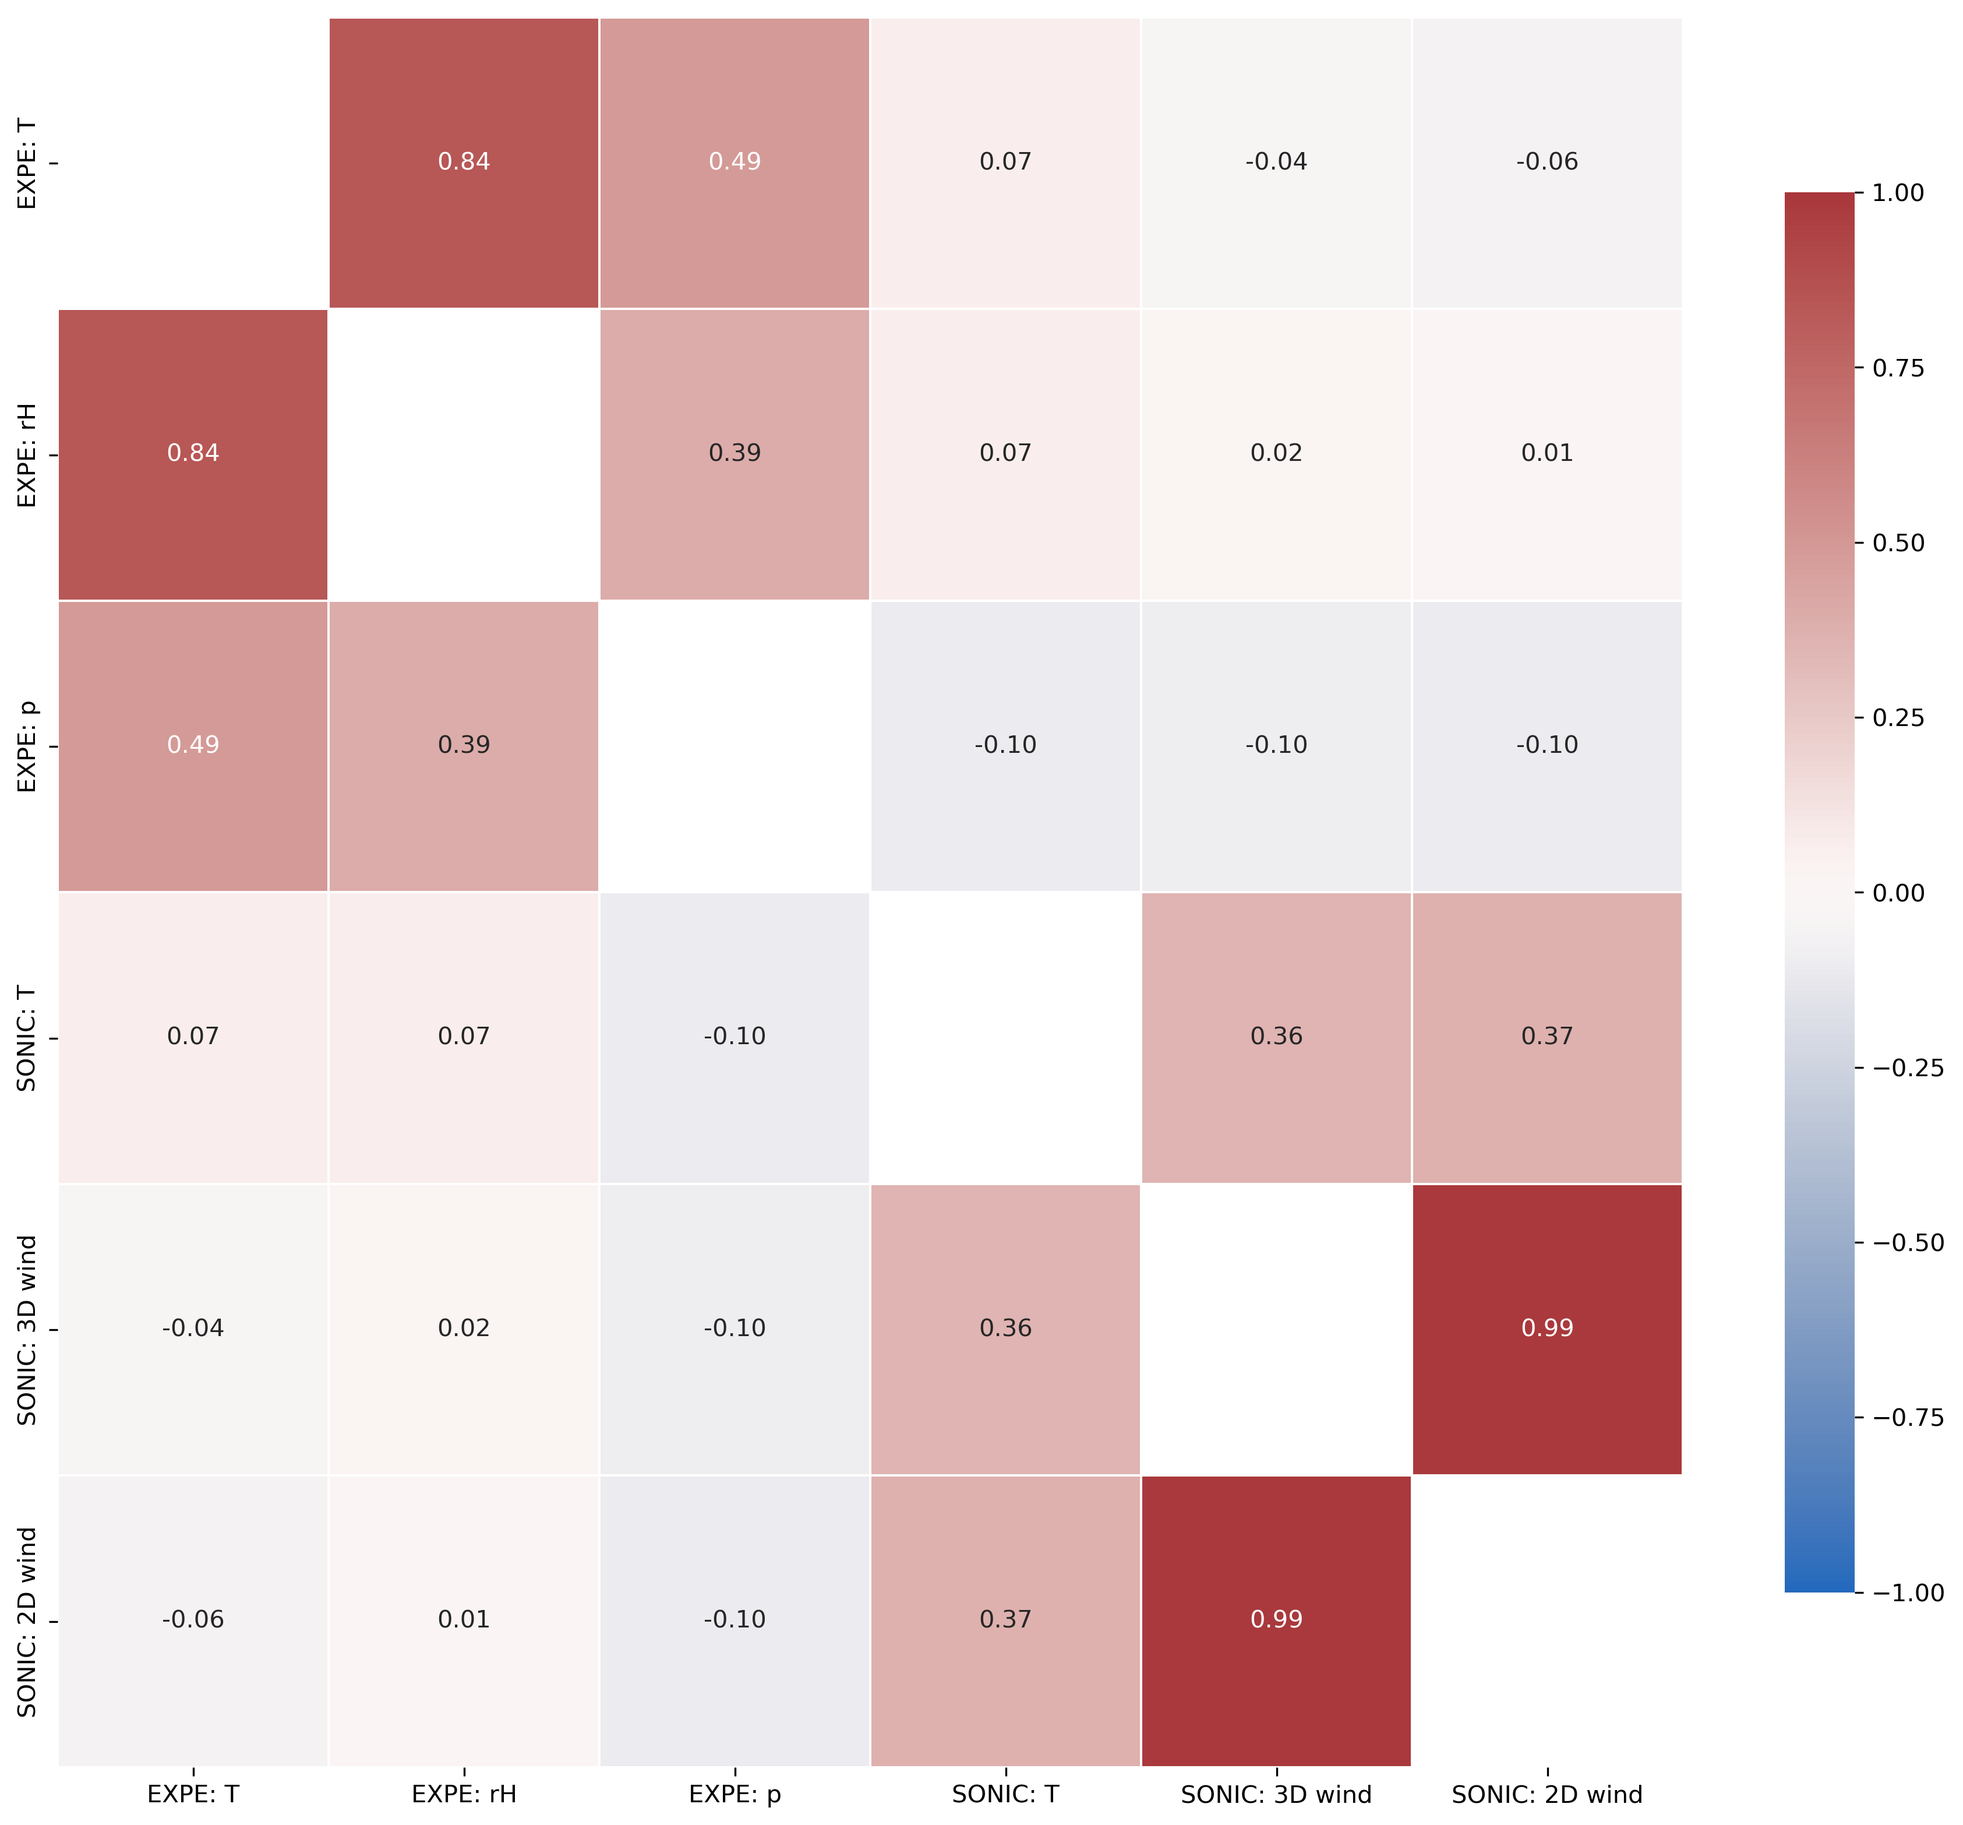
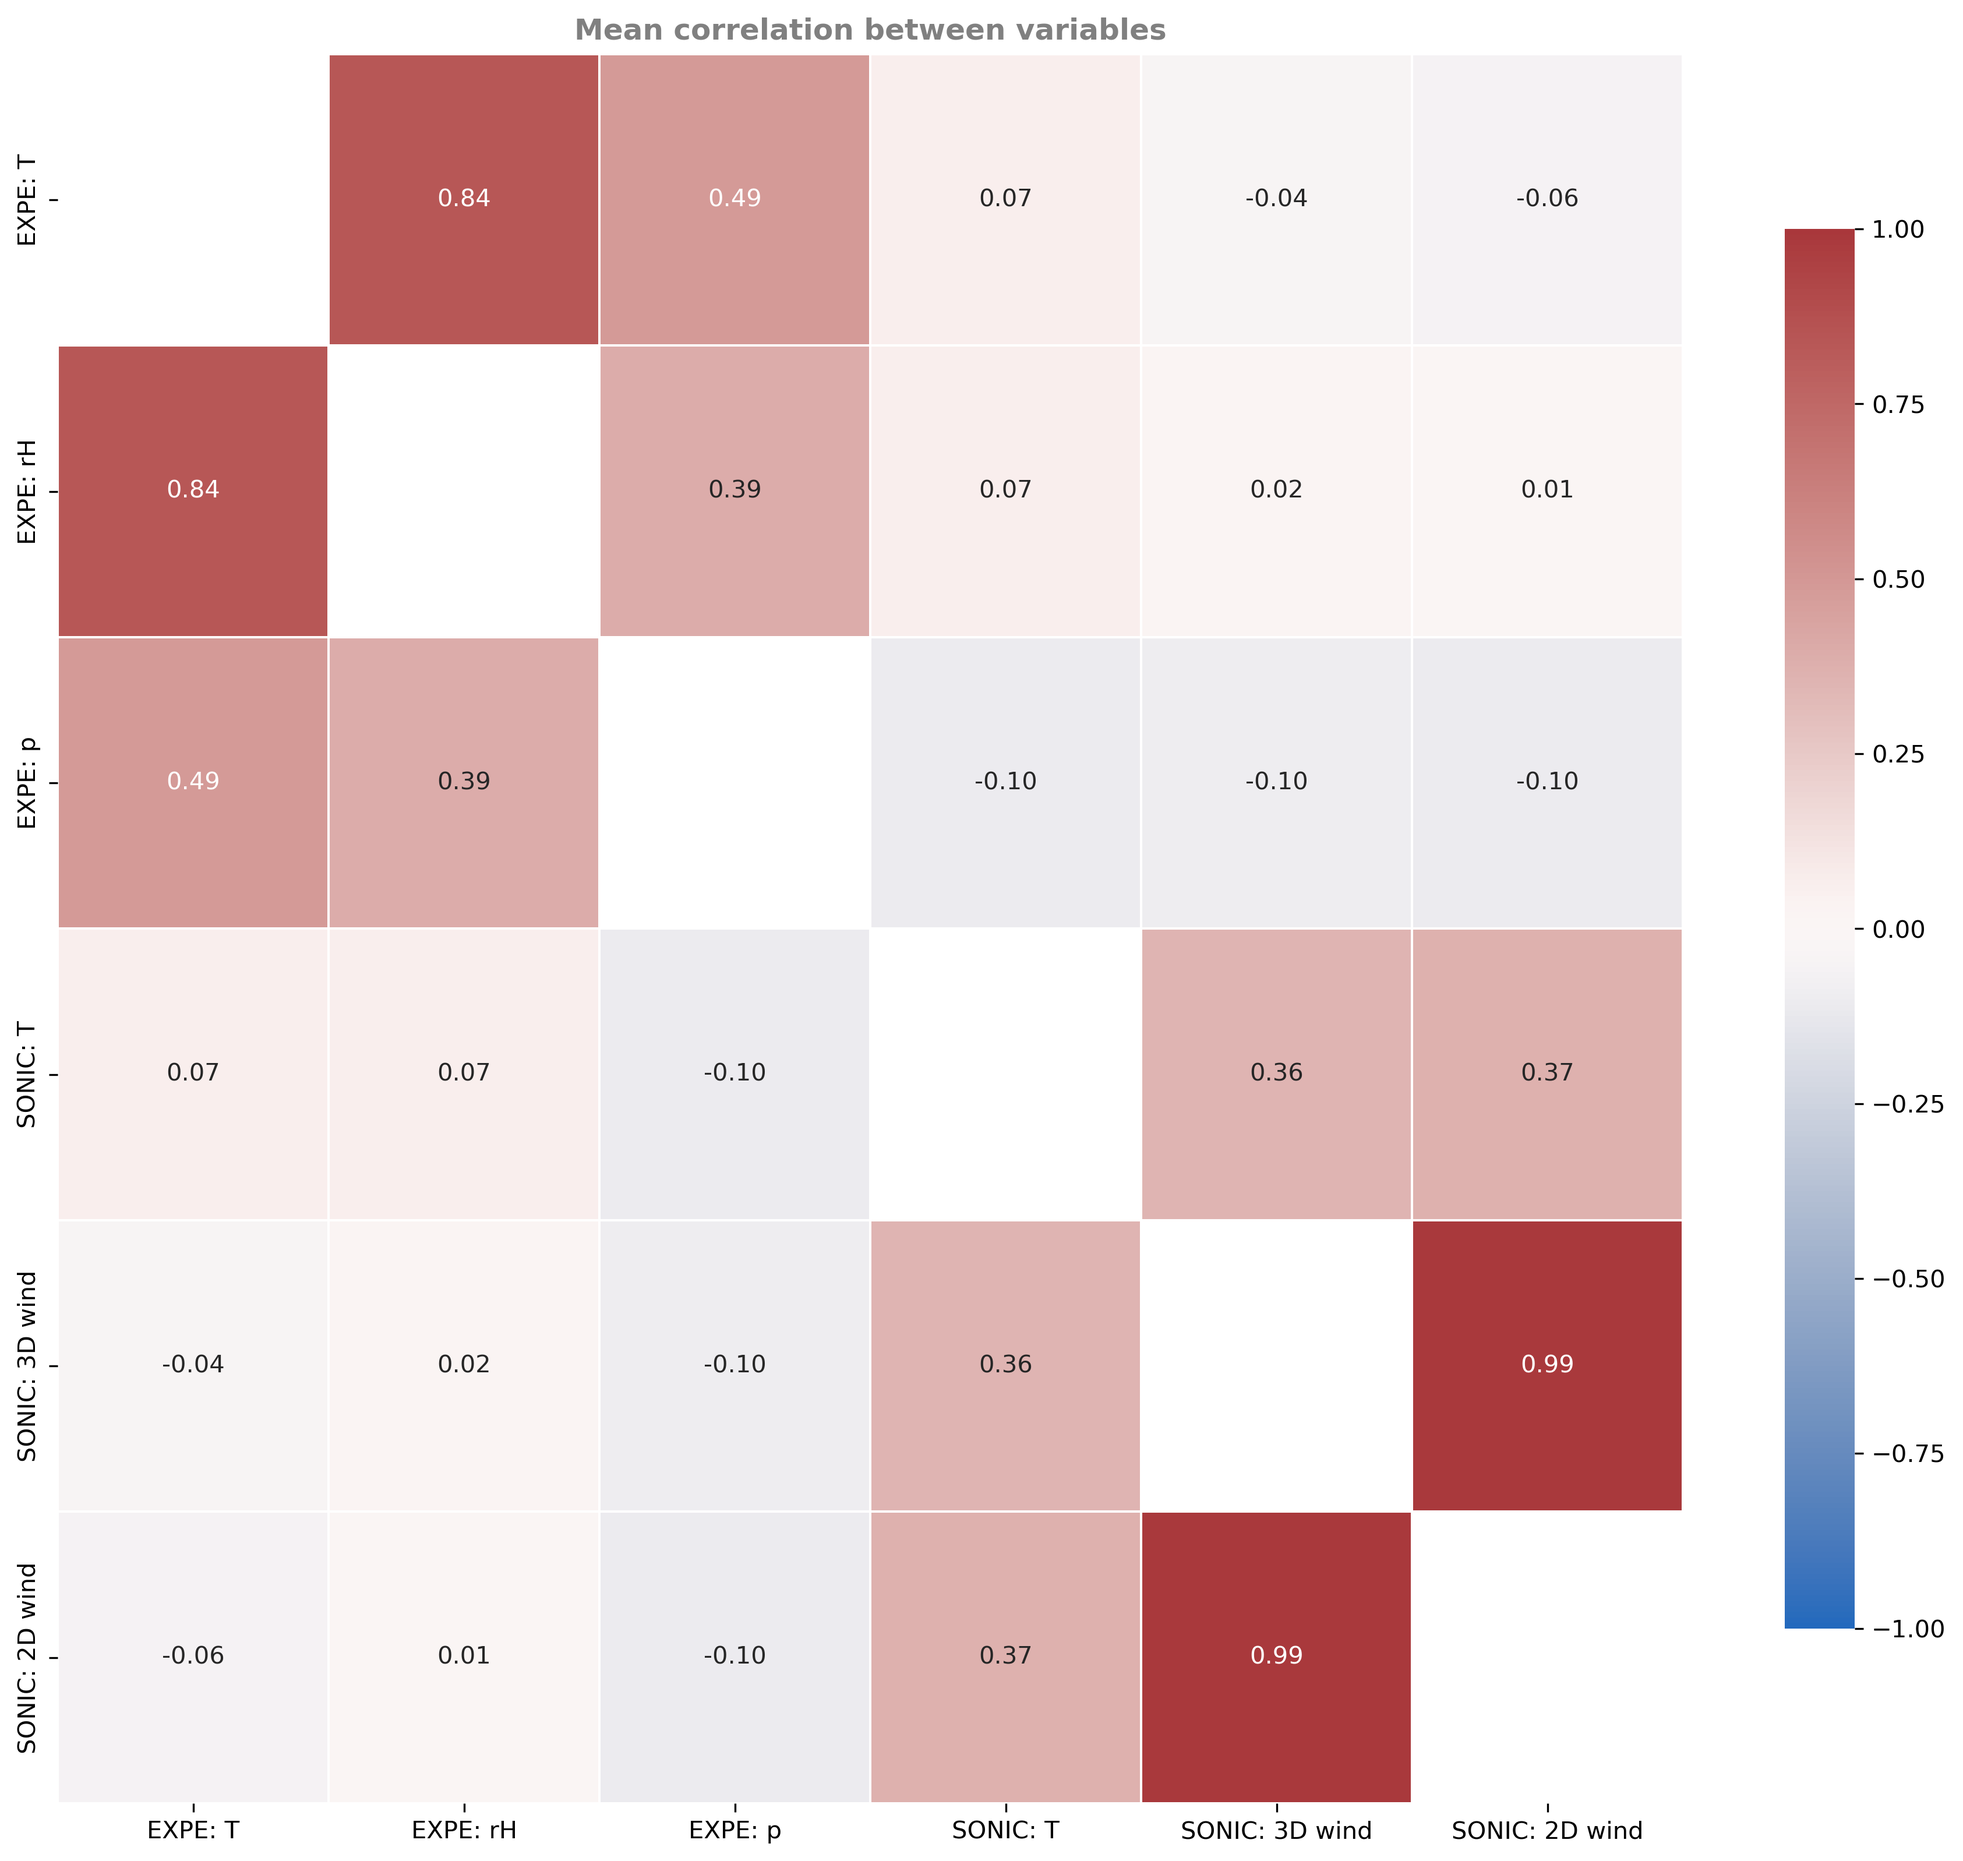
📈 Add title to mean correlation plot

diff --git a/src/Python_3_11_3/plot.py b/src/Python_3_11_3/plot.py
@@ -358,7 +358,7 @@ def plot_patterns(period: str) -> None:
     _, ax = plt.subplots(1, 1, figsize=(10, 7))
     
     # norm spectra
-    df = pd.read_csv(f"data/spectra_data/comparison_{puo}.csv")
+    df = pd.read_csv(f"data/spectra_data/comparison_{period}.csv")
     df = (df-df.min())/(df.max()-df.min())
     
     # calculate mean column
@@ -458,6 +458,7 @@ def plot_corr():
     
     # Plot correlation matrix
     plt.figure(figsize=(15, 13))
+    plt.title("Mean correlation between variables", **title_kwargs)
     sns.heatmap(df_corr, 
                 mask=np.eye(len(df_corr)), 
                 center=0, 
